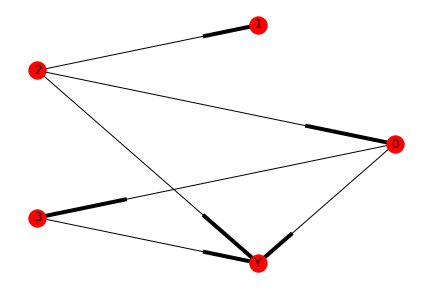
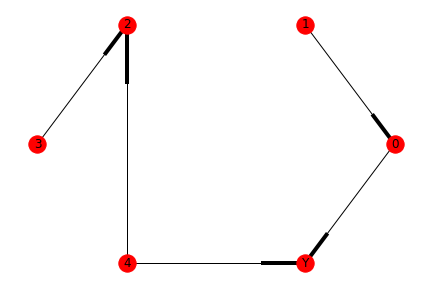
attempt adding noise

diff --git a/data/causalgraph.py b/data/causalgraph.py
@@ -14,10 +14,13 @@ class cgraph:
                 density = 1,
                 edges = "random",
                 parameter_space = lambda:  np.random.randint(1,6),
+                noise_space = lambda nobs: np.random.normal(size = nobs),
                 weights = None):
 
         self.nvars = int(number_of_X)
+
         self.parameter_space = parameter_space
+        self.noise_space = noise_space
 
         if self.nvars <= 0:
             raise ValueError("input number_of_X must be a positive integer")
@@ -96,7 +99,7 @@ class cgraph:
             for par in [p for p in done if not done[p]]:
                 # Independent variables
                 if len(self.parameters[par]) == 0 and not done[par]:
-                    X[:,par] = np.random.normal(size = nobs)
+                    X[:,par] = self.noise_space(nobs)
                     done[par] = True
 
                 # If all ancestors are made
@@ -104,10 +107,10 @@ class cgraph:
 
                     for var in self.parameters[par]:
                         if par == 'Y':
-                            X[:,-1] += self.parameters[par][var] * X[:,var]
+                            X[:,-1] += self.parameters[par][var] * X[:,var] + self.noise_space(nobs)
                             done[par] = True
                         else:
-                            X[:,par] += self.parameters[par][var]*X[:,var]
+                            X[:,par] += self.parameters[par][var]*X[:,var] + self.noise_space(nobs)
                             done[par] = True
         self.X = X
         return self.X

diff --git a/data/data.py b/data/data.py
@@ -10,12 +10,12 @@ import seaborn as sns
 from data.causalgraph import cgraph
 
 
-C = cgraph(4, density =1)
+C = cgraph(5, density =0.5)
 C.draw_graph()
 plt.savefig("figs/examplegraph.png")
 
-C.parameters
+raw = C.yield_dataset(1000)
 
-C.yield_dataset(1000)
-
-lol = pd.DataFrame(C.yield_dataset(1000))
+df = pd.DataFrame(raw)
+sns.pairplot(df)
+plt.savefig('pairs.png')

diff --git a/README.md b/README.md
@@ -33,4 +33,8 @@ We can simulate a row-column dataset with
 ```python
 C.yield_dataset(nobs = 1000)
 ```
-which will give a numpy array with data.
+which will give a numpy array with data which looks like:
+
+<p align="center">
+<img src="figs/pairs.png">
+</p>
